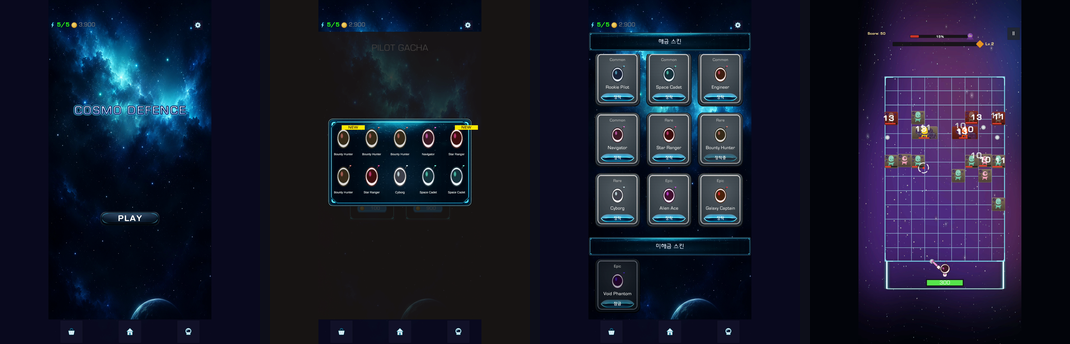
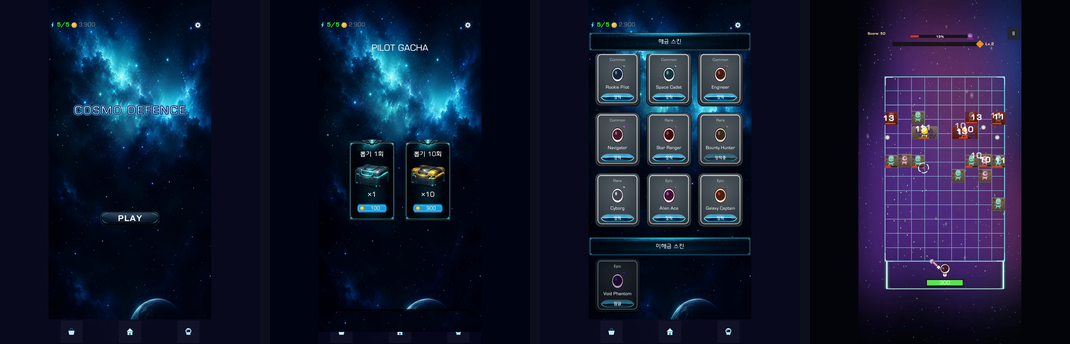
docs(readme): 헤더 2번째 컷을 10연 결과에서 가챠 창으로 교체
결과 팝업은 아이콘만 나열돼 어떤 화면인지 안 읽혔다 — 1연/10연
가격과 버튼이 보이는 가챠 창이 아웃게임 구성을 더 정확히 전달한다.
(시연 영상 자막 밴드는 배경 패치로 제거)

diff --git a/README.md b/README.md
@@ -8,7 +8,7 @@
 > Unity 6000.3.10 · Android(세로) · 2026.06.30 ~ 07.28 (4주) · 1인 클라이언트 전체
 
 <p align="center">
-  <img src="docs/images/hero.png" width="760" alt="로비 · 가챠 10연 결과 · 스킨 화면 · 인게임 전투">
+  <img src="docs/images/hero.png" width="760" alt="로비 · 가챠 창 · 스킨 화면 · 인게임 전투">
 </p>
 
 몬스터를 향해 볼을 쏘아 튕기며 싸우는 핀볼 디펜스입니다. 처음 7일은 원작(통통 디펜스: 핀볼 마스터) 1스테이지의 핵심 루프(발사, 물리 반사 전투, 레벨업 3택지, 스킬 성장, 웨이브, 결과 화면)를 재현하는 채용 과제였고, 제출 후에는 과제를 넘어서는 게 다음 단계라고 판단해 우주 테마 리스킨, 무한 모드와 보스, 로비·가챠·스킨의 아웃게임을 얹어 COSMO DEFENCE로 확장했습니다. 과제에서 출발한 이력을 지우지 않은 이유는, 원작 관찰을 구현의 기준으로 삼는 방식이 이 프로젝트 설계 판단의 뿌리이기 때문입니다.
